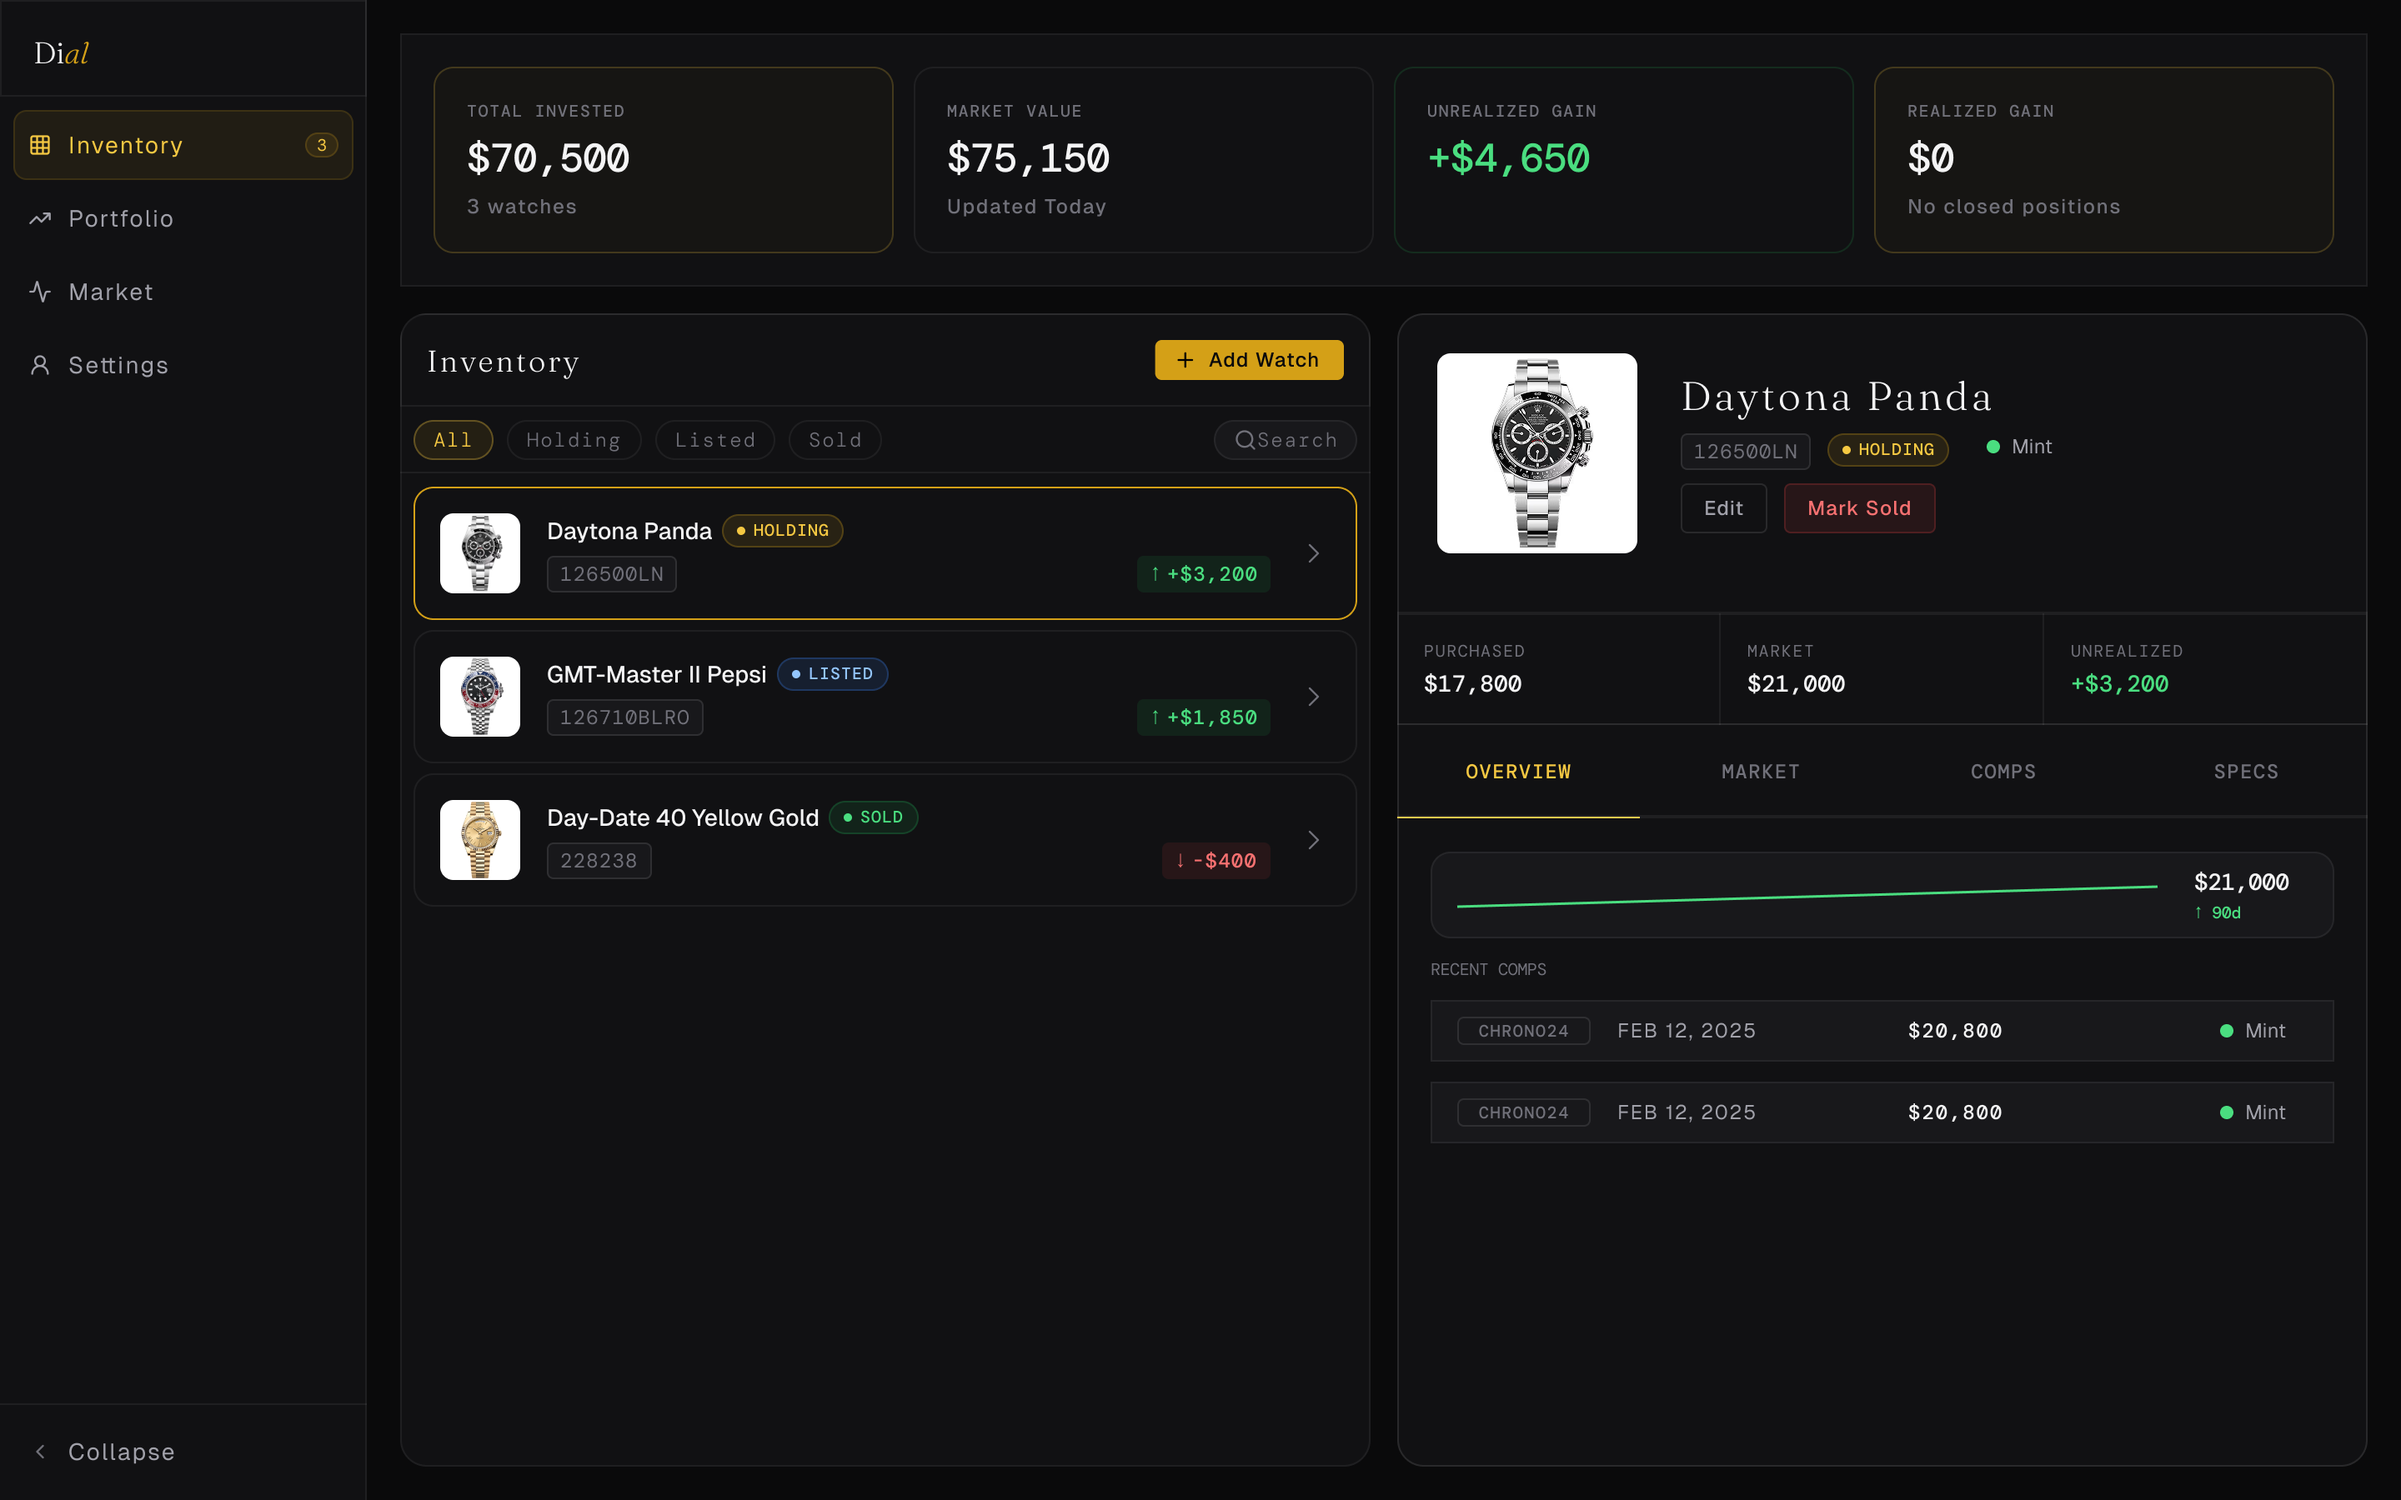
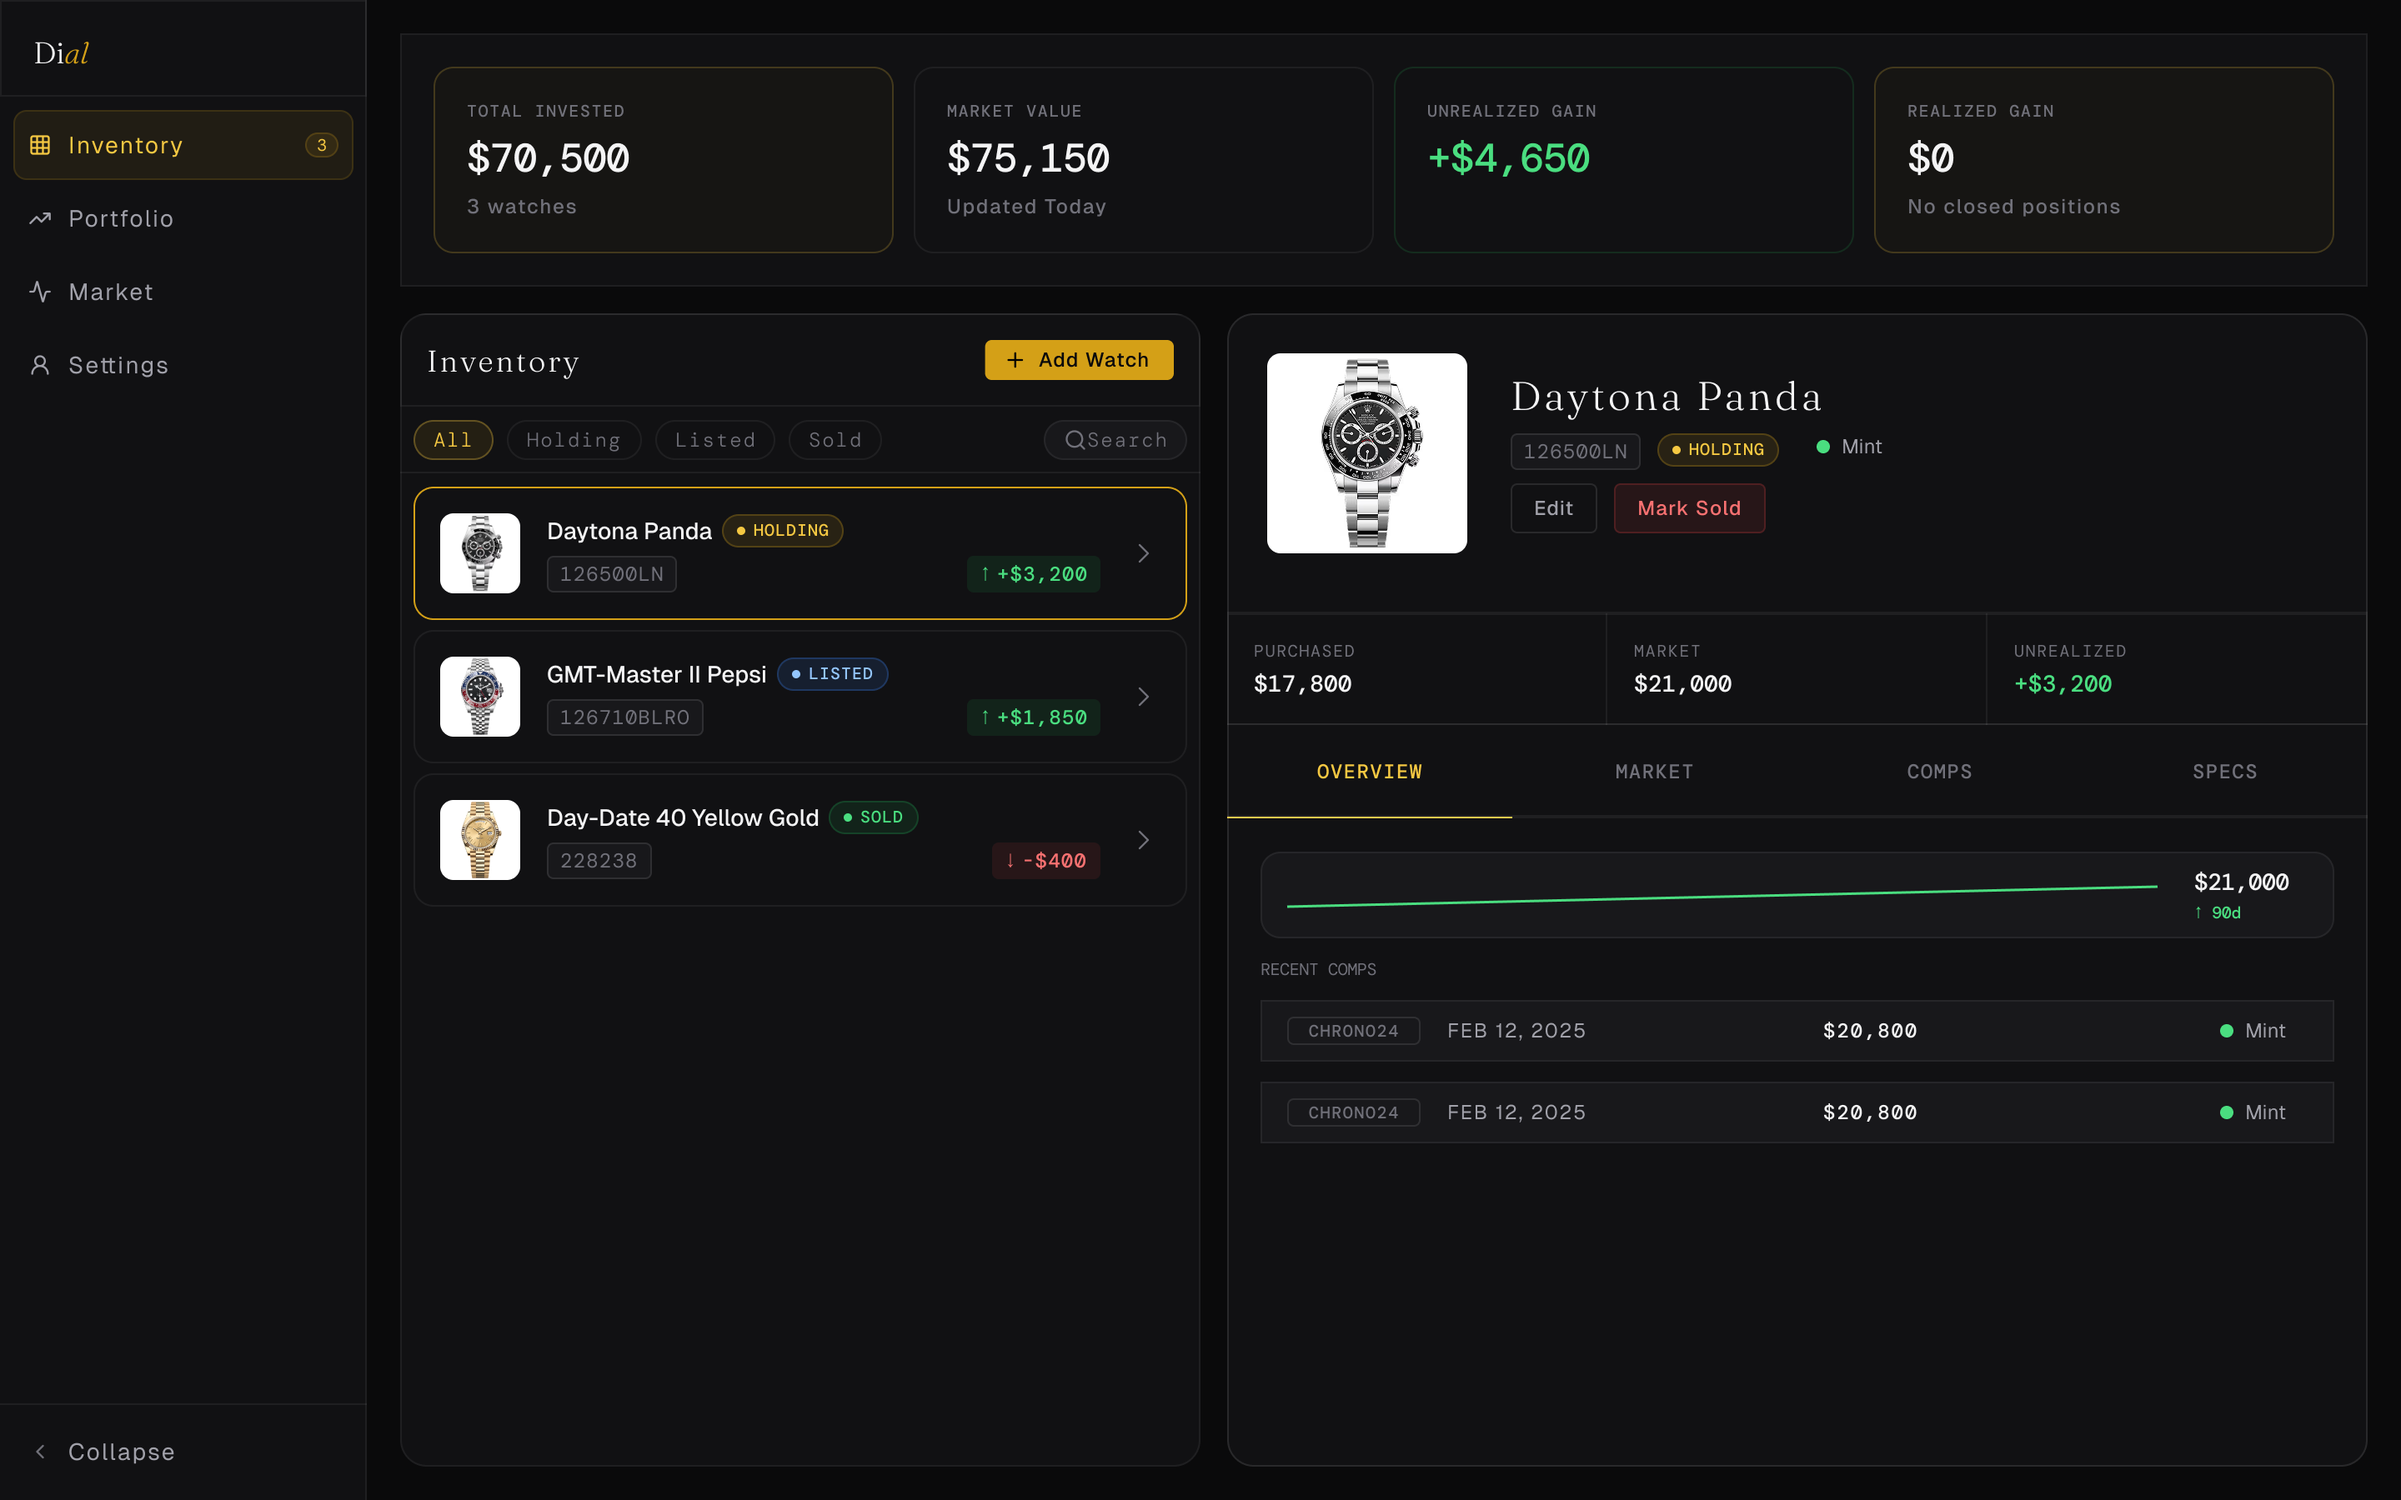
Dial updates

diff --git a/project-dial.html b/project-dial.html
@@ -934,8 +934,8 @@ footer {
 
       <div class="hero-image-zone">
         <div class="screen-placeholder">
-          <img src="Img/Dial-Inventory.png" alt="Dial - Dashboard Inventory List" />
-          <div class="screen-label">Screen 01 · Dashboard</div>
+          <img src="Img/Dial-Detail.png" alt="Dial - Dashboard Inventory List" />
+          <div class="screen-label">Screen 02 · Detail Panel</div>
         </div>
       </div>
 
